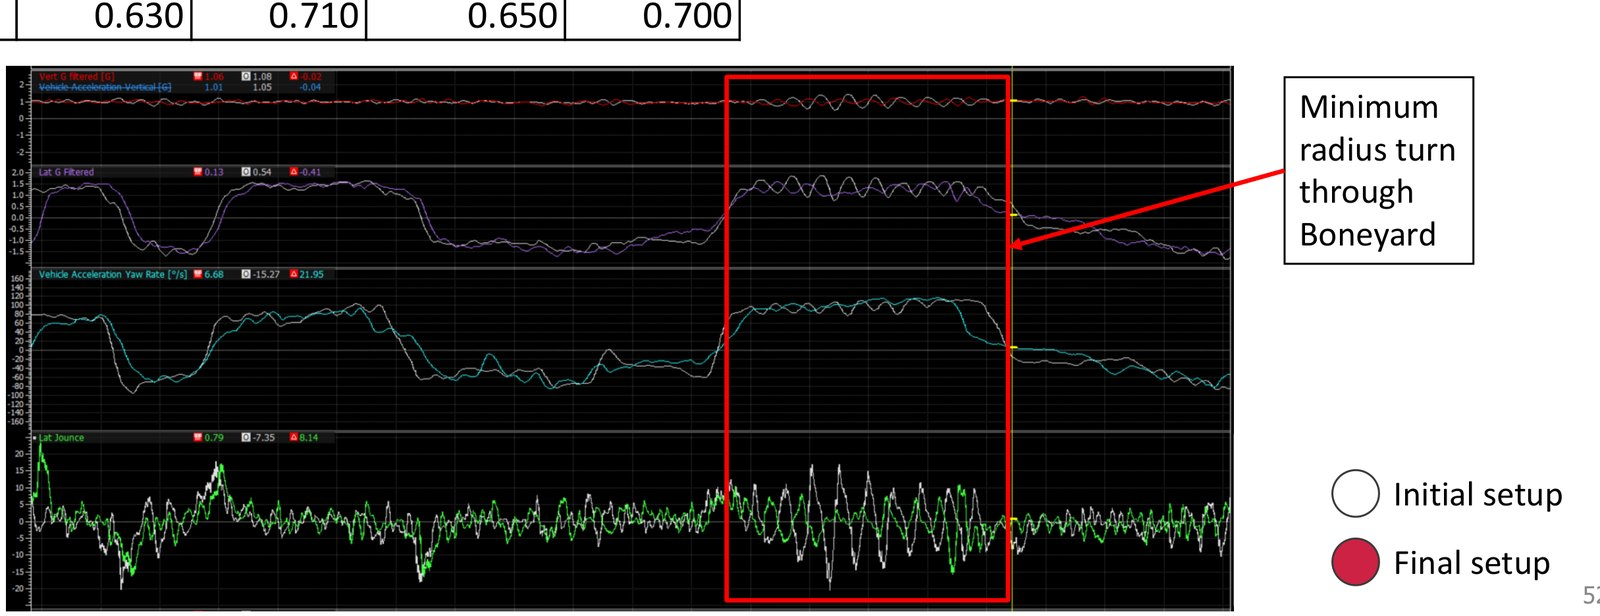
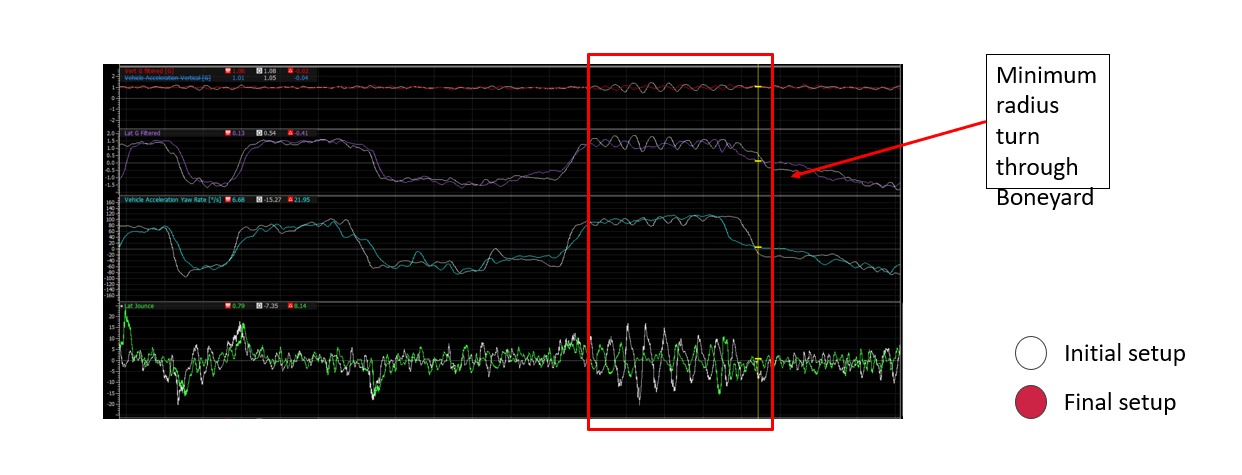
Suspension page: swap in CC's lat-g and motion ratio figures, trim gallery
Replaces the damper lat-g trace and FARO motion ratio figures with
CC's versions. Removes the geometry CAD renders, toe sweep charts, and
bumpstop CAD from the gallery. Tool strip items are now rounded pills.

diff --git a/engineering/suspension.html b/engineering/suspension.html
@@ -124,16 +124,10 @@
       <div class="prose"><h2>Gallery</h2></div>
       <div class="gallery" data-gallery>
         <div class="gallery-track" tabindex="0" aria-label="Suspension photos and figures, scroll or use the arrow buttons">
-          <figure class="slide fit"><img src="../images/suspension/cr26i-front-geometry.jpg" alt="CAD render of the CR26I front suspension geometry" loading="lazy"><figcaption>CR26I front suspension geometry.</figcaption></figure>
-          <figure class="slide fit"><img src="../images/suspension/cr26i-rear-geometry.jpg" alt="CAD render of the CR26I rear suspension geometry" loading="lazy"><figcaption>CR26I rear suspension geometry.</figcaption></figure>
-          <figure class="slide fit"><img src="../images/suspension/cr26e-front-geometry.jpg" alt="CAD render of the CR26E front suspension geometry, pushrods and dampers mounted on the front frame" loading="lazy"><figcaption>CR26E front suspension geometry design.</figcaption></figure>
-          <figure class="slide fit"><img src="../images/suspension/cr26e-rear-geometry.jpg" alt="CAD render of the CR26E rear suspension geometry, dampers and rockers mounted on the rear frame" loading="lazy"><figcaption>CR26E rear suspension geometry design.</figcaption></figure>
           <figure class="slide fit"><img src="../images/suspension/damper-histograms-initial.jpg" alt="Initial damper velocity histograms for all four corners, with FL and RR circled for rebound-bump imbalance" loading="lazy"><figcaption>Initial damper velocity histograms: significant rebound-bump imbalance at FL and RR.</figcaption></figure>
           <figure class="slide fit"><img src="../images/suspension/damper-histograms-final.jpg" alt="Final damper velocity histograms for all four corners, more balanced between rebound and bump" loading="lazy"><figcaption>Final damper velocity histograms after retuning.</figcaption></figure>
-          <figure class="slide fit"><img src="../images/suspension/toe-sweep-yaw-rate.jpg" alt="Bar charts of average yaw rate across front and rear toe settings from -2 to +2 degrees" loading="lazy"><figcaption>Toe sweep: effect of front and rear toe on corner entry and mid-corner yaw rate.</figcaption></figure>
           <figure class="slide"><img src="../images/suspension/faro-arm-2.jpg" alt="Team member measuring suspension pickup points on the frame with a FARO arm" loading="lazy"><figcaption>Measuring frame pickup points with the FARO arm.</figcaption></figure>
           <figure class="slide"><img src="../images/suspension/faro-arm-1.jpg" alt="Close-up of a FARO arm probe on a frame tab" loading="lazy"><figcaption>FARO arm probe on a suspension tab.</figcaption></figure>
-          <figure class="slide fit"><img src="../images/suspension/bumpstop-cad.jpg" alt="CAD render of the tapered 3D-printed TPU bumpstop" loading="lazy"><figcaption>Proposed TPU bumpstop design.</figcaption></figure>
           <figure class="slide"><img src="../images/suspension/carbon-rod-bonding.jpg" alt="Two team members in gloves and safety glasses bonding carbon suspension rods" loading="lazy"><figcaption>Carbon rod bonding and manufacturing.</figcaption></figure>
           <figure class="slide"><img src="../images/Suspensiongeo.jpg" alt="Alabama FSAE CR26I rear suspension with Öhlins dampers" loading="lazy"><figcaption>CR26I rear suspension.</figcaption></figure>
         </div>

diff --git a/css/style.css b/css/style.css
@@ -345,8 +345,8 @@ footer.pagefoot a{text-decoration:underline;text-underline-offset:3px;}
 .hub-hero h1{font-family:"Playfair Display",serif;font-weight:600;font-size:clamp(2.2rem,5vw,3.4rem);line-height:1.1;margin-top:10px;max-width:20ch;}
 .tool-strip{display:flex;flex-wrap:wrap;gap:8px;margin-top:24px;}
 .tool-strip span{
-  font-family:"Archivo",sans-serif;font-size:0.78rem;font-weight:600;
-  padding:6px 11px;border:1px solid var(--line);background:var(--surface);
+  font-family:"Archivo",sans-serif;font-size:0.8rem;font-weight:600;color:var(--eng);
+  padding:6px 14px;border-radius:999px;background:var(--eng-tint);
 }
 .status{
   display:inline-block;font-family:"Bebas Neue",sans-serif;letter-spacing:0.06em;
